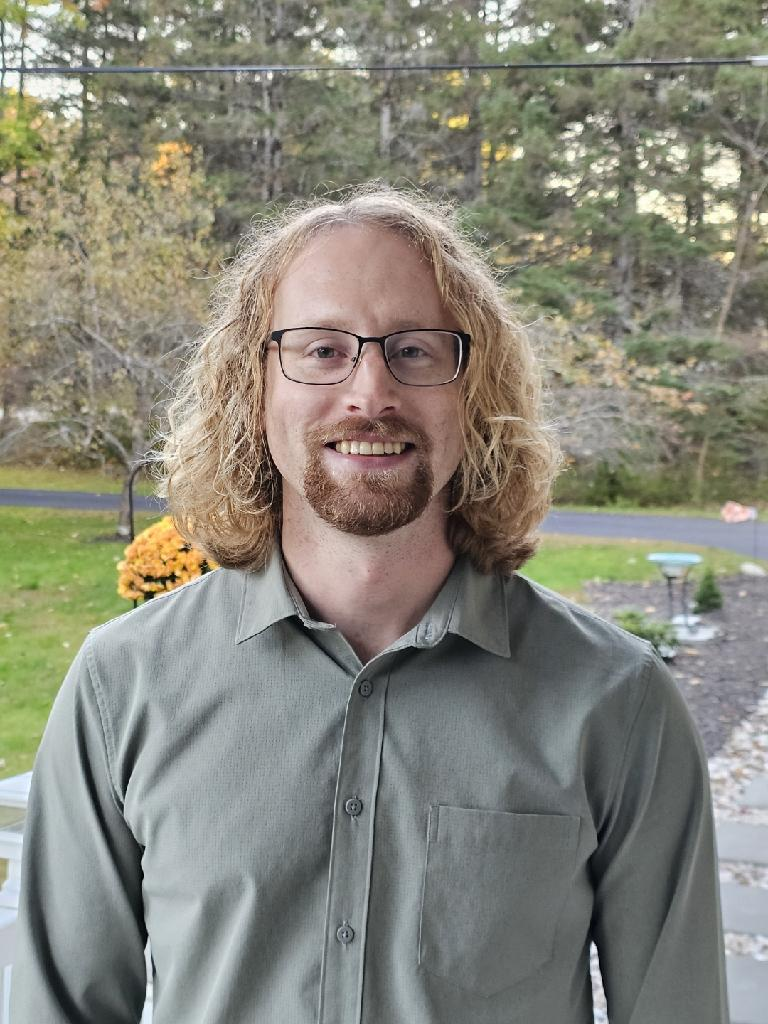
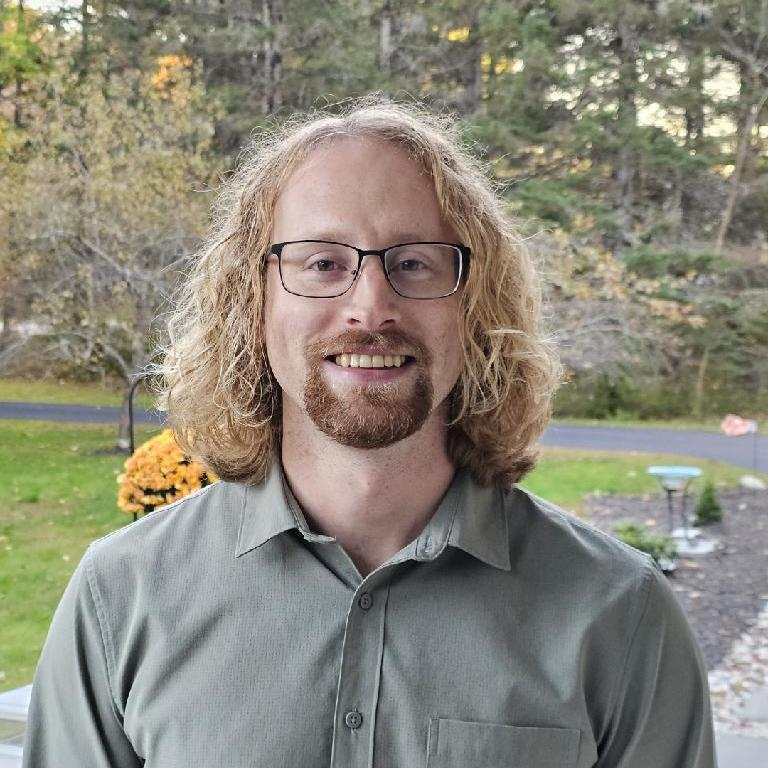
Added my image, edited bryan's so he isn't squished on the site

diff --git a/src/About.tsx b/src/About.tsx
@@ -78,7 +78,7 @@ function About(): React.JSX.Element {
                     <Box>
                         <Image
                             // eslint-disable-next-line @typescript-eslint/no-unsafe-assignment
-                            src={require("./images/izge.jpg")}
+                            src={require("./images/Aiden.jpg")}
                             borderRadius="full"
                             boxSize="150px"
                         />
